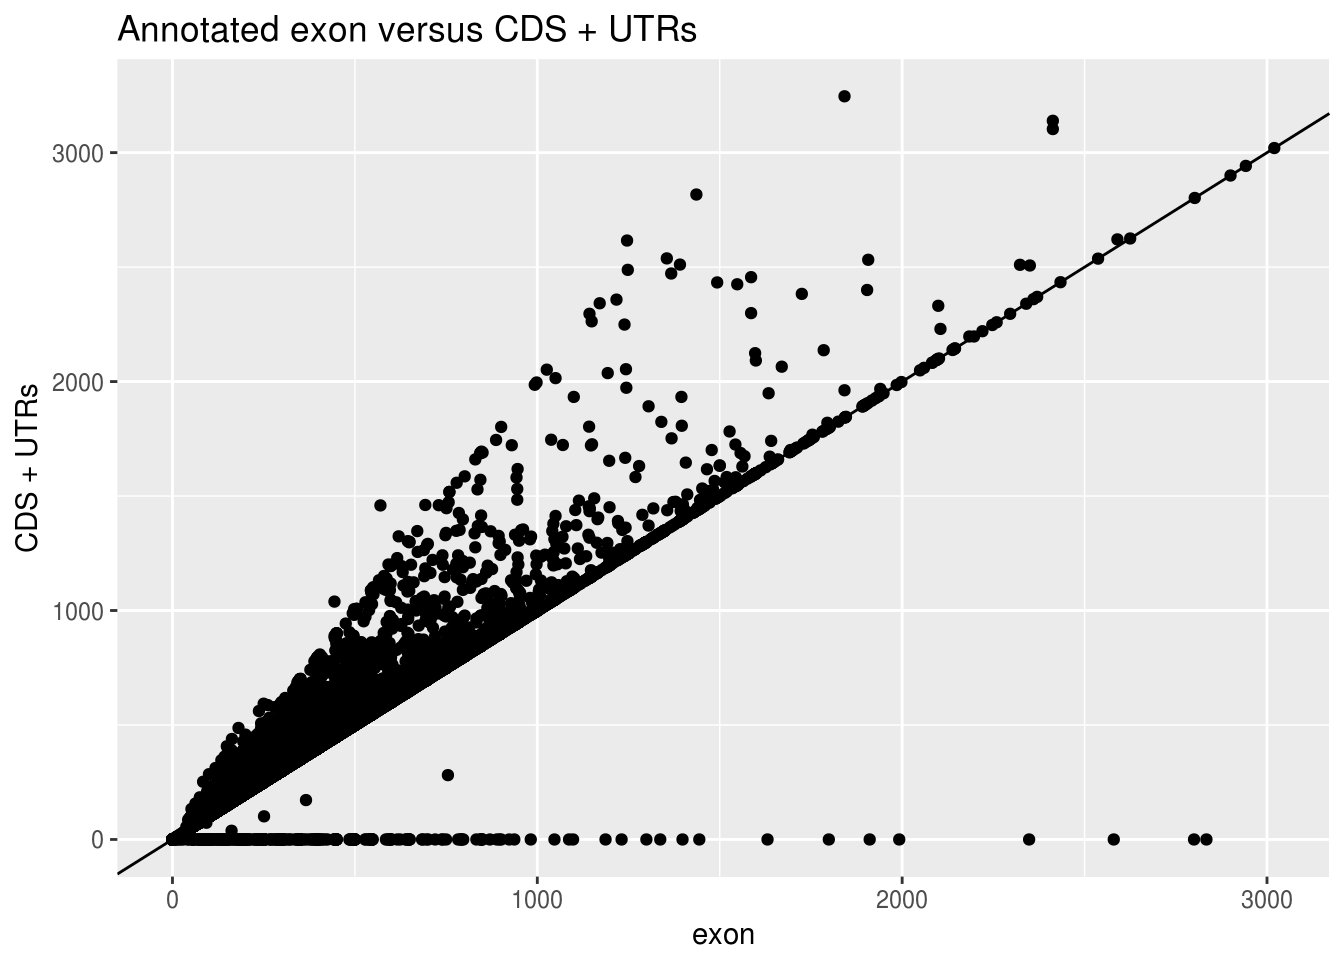
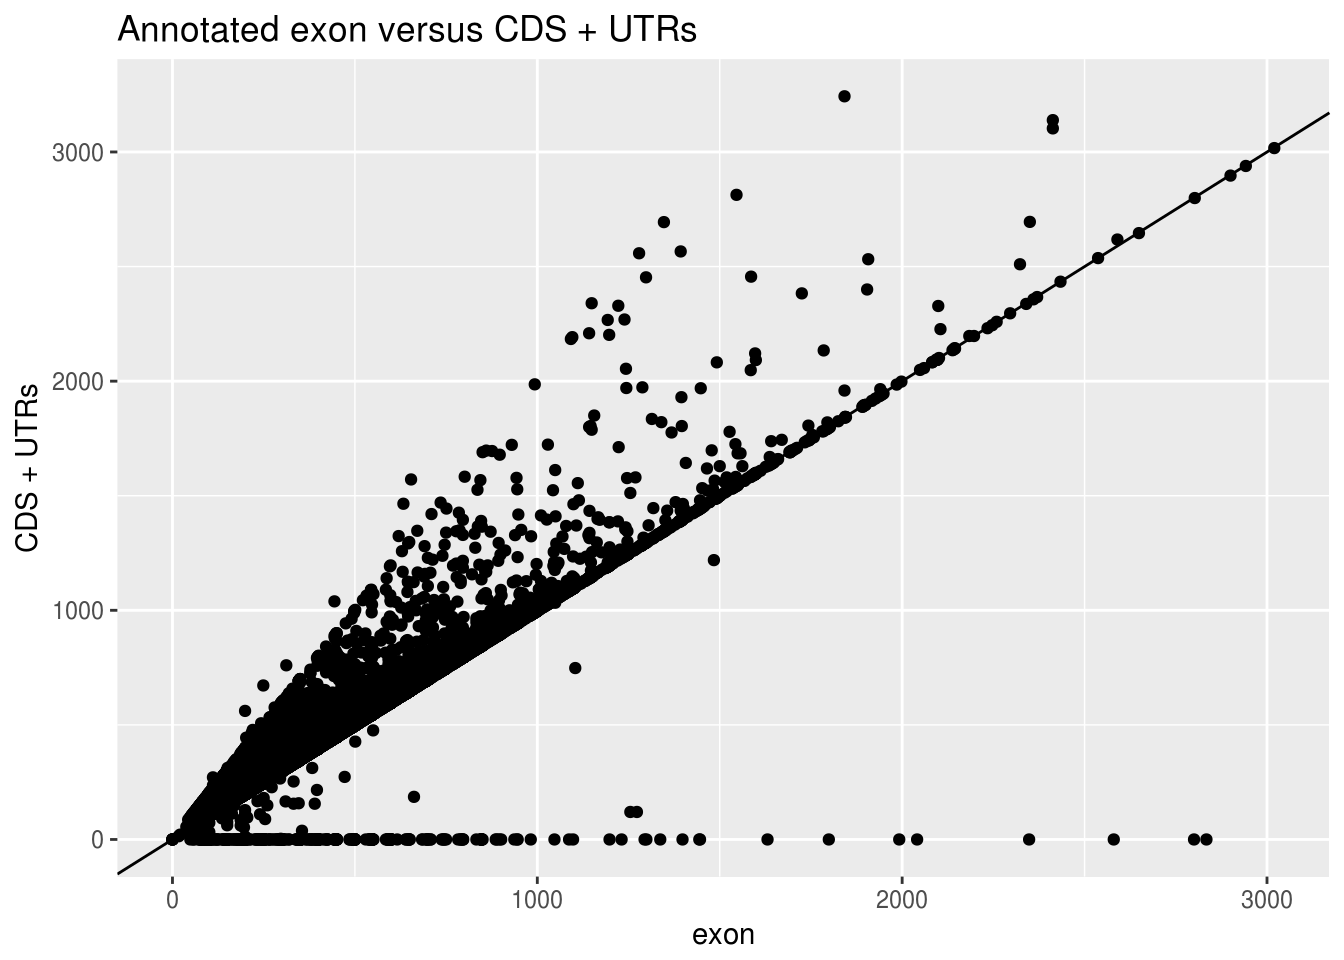
updated gene annotation database and updated corresponding report

diff --git a/docs/transcript_annotation.test.html b/docs/transcript_annotation.test.html
@@ -297,7 +297,7 @@ div.tocify {
 
 <h1 class="title toc-ignore">Annotating test</h1>
 <h4 class="author"><em>Yanyu Liang</em></h4>
-<h4 class="date"><em>26 September, 2017</em></h4>
+<h4 class="date"><em>27 September, 2017</em></h4>
 
 </div>
 
@@ -331,16 +331,16 @@ library(dplyr)</code></pre>
 <div id="are-they-protein-coding-genes-pcgs" class="section level1">
 <h1><span class="header-section-number">4</span> Are they protein coding genes (PCGs)?</h1>
 <pre class="r"><code>ggplot(mydat) +
-  geom_point(aes(x = exon, y = CDS + five_prime_UTR + three_prime_UTR)) + geom_abline(slope = 1, intercept = 0) +
+  geom_point(aes(x = exon, y = CDS + fiveUTR + threeUTR)) + geom_abline(slope = 1, intercept = 0) +
   ggtitle(&#39;Annotated exon versus CDS + UTRs&#39;) + labs(y = &#39;CDS + UTRs&#39;)</code></pre>
 <p><img src="transcript_annotation.test_files/figure-html/unnamed-chunk-4-1.png" width="672" /></p>
 </div>
 <div id="where-do-pcg-peaks-locate" class="section level1">
 <h1><span class="header-section-number">5</span> Where do PCG peaks locate?</h1>
 <pre class="r"><code>mydat.pcg &lt;- mydat %&gt;%
-  filter(CDS + three_prime_UTR + five_prime_UTR != 0)
+  filter(CDS + threeUTR + fiveUTR != 0)
 ggplot(mydat.pcg) +
-  geom_point(aes(x = five_prime_UTR / size, y = three_prime_UTR / size, color = CDS / size &gt; 0.75)) +
+  geom_point(aes(x = fiveUTR / size, y = threeUTR / size, color = CDS / size &gt; 0.75)) +
   # scale_color_gradient2(low = &#39;blue&#39;, mid = &#39;white&#39;, high = &#39;red&#39;, midpoint = 0.75,  limits=c(0, 1)) +
   ggtitle(&#39;Fraction of UTRs/CDS in PCG peaks&#39;) +
   labs(x = &#39;Fraction of 5\&#39;UTR&#39;, y = &#39;Fraction of 3\&#39;UTR&#39;, color = &#39;CDS % &gt; 0.75&#39;) +

diff --git a/docs/transcript_annotation.metApeakFisher_joint_peaks_18lcls.html b/docs/transcript_annotation.metApeakFisher_joint_peaks_18lcls.html
@@ -331,16 +331,16 @@ library(dplyr)</code></pre>
 <div id="are-they-protein-coding-genes-pcgs" class="section level1">
 <h1><span class="header-section-number">4</span> Are they protein coding genes (PCGs)?</h1>
 <pre class="r"><code>ggplot(mydat) +
-  geom_point(aes(x = exon, y = CDS + five_prime_UTR + three_prime_UTR)) + geom_abline(slope = 1, intercept = 0) +
+  geom_point(aes(x = exon, y = CDS + fiveUTR + threeUTR)) + geom_abline(slope = 1, intercept = 0) +
   ggtitle(&#39;Annotated exon versus CDS + UTRs&#39;) + labs(y = &#39;CDS + UTRs&#39;)</code></pre>
 <p><img src="transcript_annotation.metApeakFisher_joint_peaks_18lcls_files/figure-html/unnamed-chunk-4-1.png" width="672" /></p>
 </div>
 <div id="where-do-pcg-peaks-locate" class="section level1">
 <h1><span class="header-section-number">5</span> Where do PCG peaks locate?</h1>
 <pre class="r"><code>mydat.pcg &lt;- mydat %&gt;%
-  filter(CDS + three_prime_UTR + five_prime_UTR != 0)
+  filter(CDS + threeUTR + fiveUTR != 0)
 ggplot(mydat.pcg) +
-  geom_point(aes(x = five_prime_UTR / size, y = three_prime_UTR / size, color = CDS / size &gt; 0.75)) +
+  geom_point(aes(x = fiveUTR / size, y = threeUTR / size, color = CDS / size &gt; 0.75)) +
   # scale_color_gradient2(low = &#39;blue&#39;, mid = &#39;white&#39;, high = &#39;red&#39;, midpoint = 0.75,  limits=c(0, 1)) +
   ggtitle(&#39;Fraction of UTRs/CDS in PCG peaks&#39;) +
   labs(x = &#39;Fraction of 5\&#39;UTR&#39;, y = &#39;Fraction of 3\&#39;UTR&#39;, color = &#39;CDS % &gt; 0.75&#39;) +
